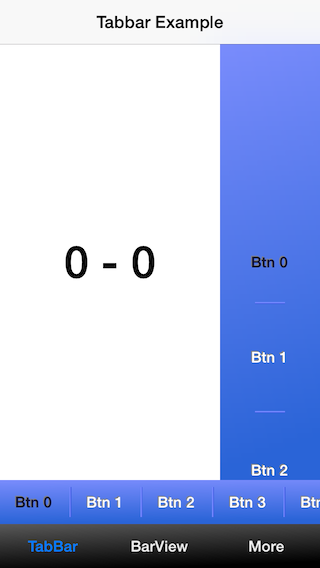
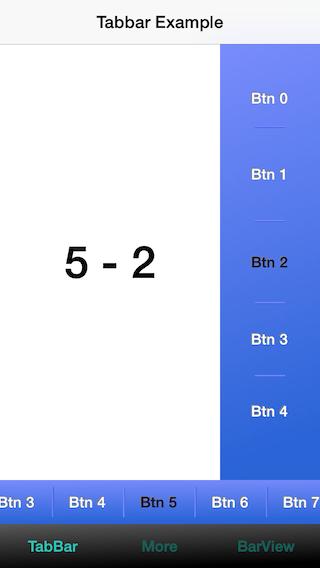
fix: changing VC’s when view is loaded fix: changing selectionViewController when view is loaded

diff --git a/JJlibUI/Examples/MoreViewVC.m b/JJlibUI/Examples/MoreViewVC.m
@@ -65,16 +65,15 @@
     BarViewExampleVC *example2 = [[BarViewExampleVC alloc] initWithNibName:nil bundle:nil];
     example2.tabBarItem.title = @"BarView";
     
-    MoreViewVC *example3 = [[MoreViewVC alloc] initWithNibName:nil bundle:nil];
-    example3.tabBarItem.title = @"More";
+    // remove our custom button so a default delegate is created
+    self.jTabBarButton = nil;
     
     self.jTabBarController.childViewControllers = @[
                                                example1,
-                                               example3,
+                                               self,
                                                example2
                                                ];
     
-#warning - need to fix this
     self.jTabBarController.selectedIndex = 1;
     
 }

diff --git a/JJlibUI/Source/containers/JTabBarController.m b/JJlibUI/Source/containers/JTabBarController.m
@@ -3,7 +3,7 @@
 //  JJlibUI
 //
 //  Created by Joao Jesus on 18/11/13.
-//  Copyright (c) 2013 Joao Jesus. All rights reserved.
+//  Copyright (c) 2013 JJApps. All rights reserved.
 //
 
 #import "JTabBarController.h"
@@ -111,8 +111,6 @@
         return;
     }
     
-    _selectedChildViewController = selectedChildViewController;
-    
     if ( [self isViewLoaded] ) {
         
         if ( _associatedButtonMatrix ) {
@@ -121,6 +119,9 @@
             _associatedTabBar.selectedIndex = index;
         }
         [self changeToViewController:selectedChildViewController];
+        
+    } else {        
+        _selectedChildViewController = selectedChildViewController;
     }
 }
 

diff --git a/JJlibUI/Source/categories/UIButton+JButton.m b/JJlibUI/Source/categories/UIButton+JButton.m
@@ -3,7 +3,7 @@
 //  JJlibUI
 //
 //  Created by Joao Jesus on 25/10/13.
-//  Copyright (c) JJApps. All rights reserved.
+//  Copyright (c) 2013 JJApps. All rights reserved.
 //
 
 #import "UIButton+JButton.h"

diff --git a/README.md b/README.md
@@ -5,19 +5,19 @@ First set of the JJlibUI.
 To help build new UI easy and customizable.
 Support for iOS 5.0 and superior.
 
-	Current build: v0.2.1 (Alpha)
+	Current build: v0.2.1
 
 	Functionality :
  		- Simulate radio buttons with button's.
  		- A bar that will help layout your subviews horizontal and vertical with or without scroll.
  		- Full flexible and customizable tabbar.
- 		- Create new custom TabBarController's
- 		- CocoPods integration ? 		
+ 		- Create new custom TabBarController's 		
 
 	Avaiable soon :
 		- UIAppearance compliant.
 		- Storyboard integration.
 		- More examples
+		- CocoPods integration
 
 ![Screenshots](Screenshot.png "Screenshot")
 

diff --git a/HistoryVersion.md b/HistoryVersion.md
@@ -3,7 +3,6 @@ Suggestions and Contributions email: joaofrjesusbe at gmail.com
 
 Release Notes (v0.2.1):
 	- Introducing JTabBarController
-	- CocoPods integration (soon)
 
 Release Notes (v0.1.3):
 	- Fix JTabBarView when setting new child views on runtime.
